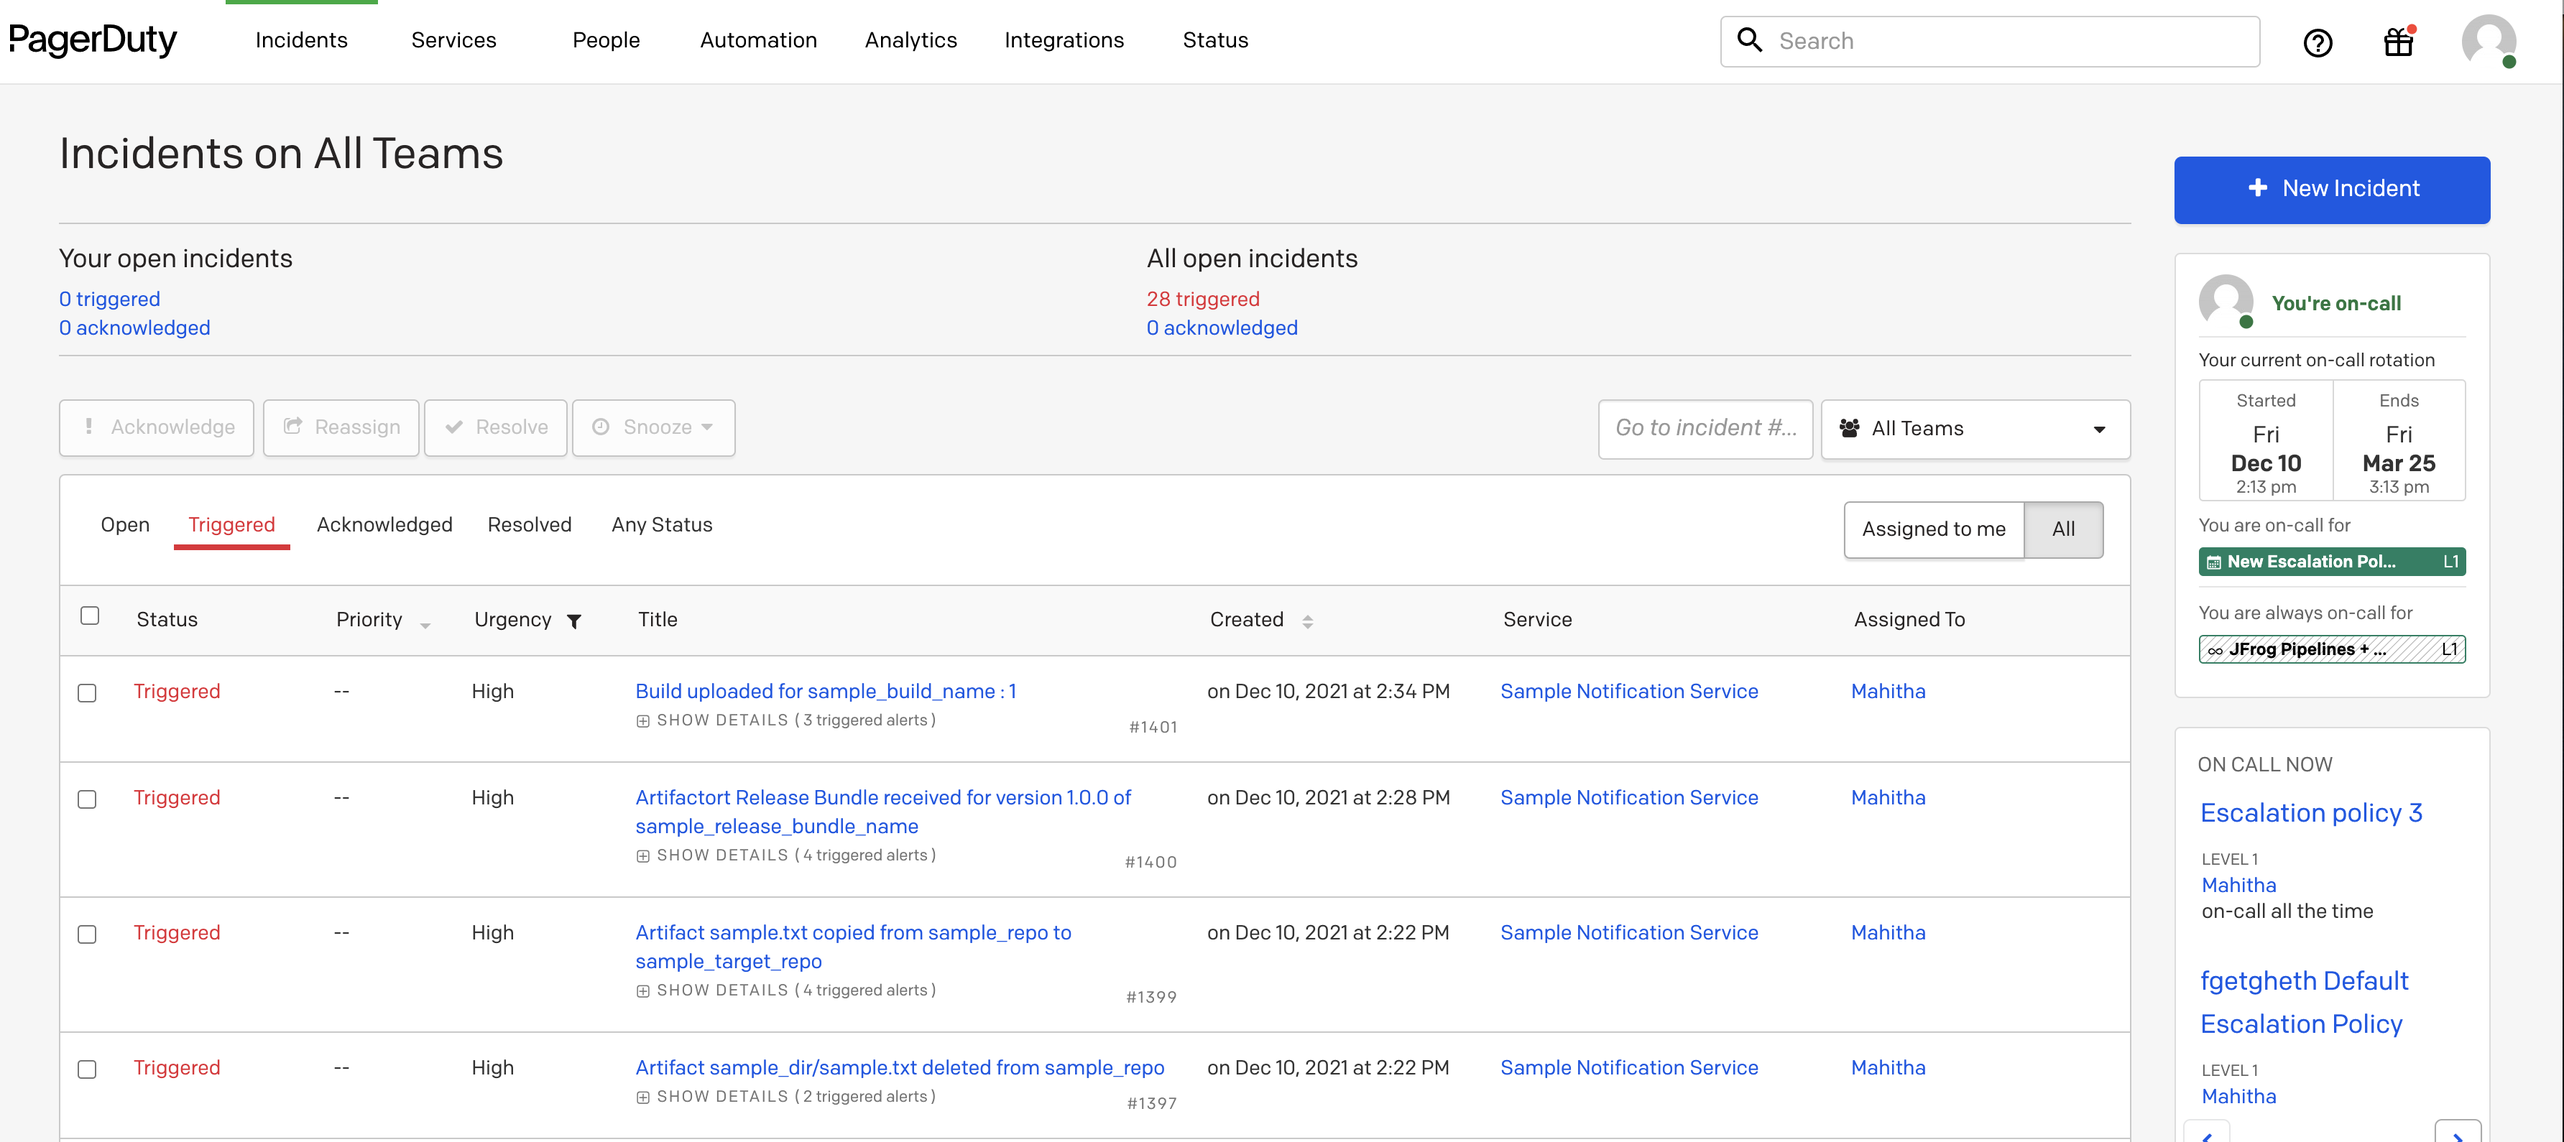
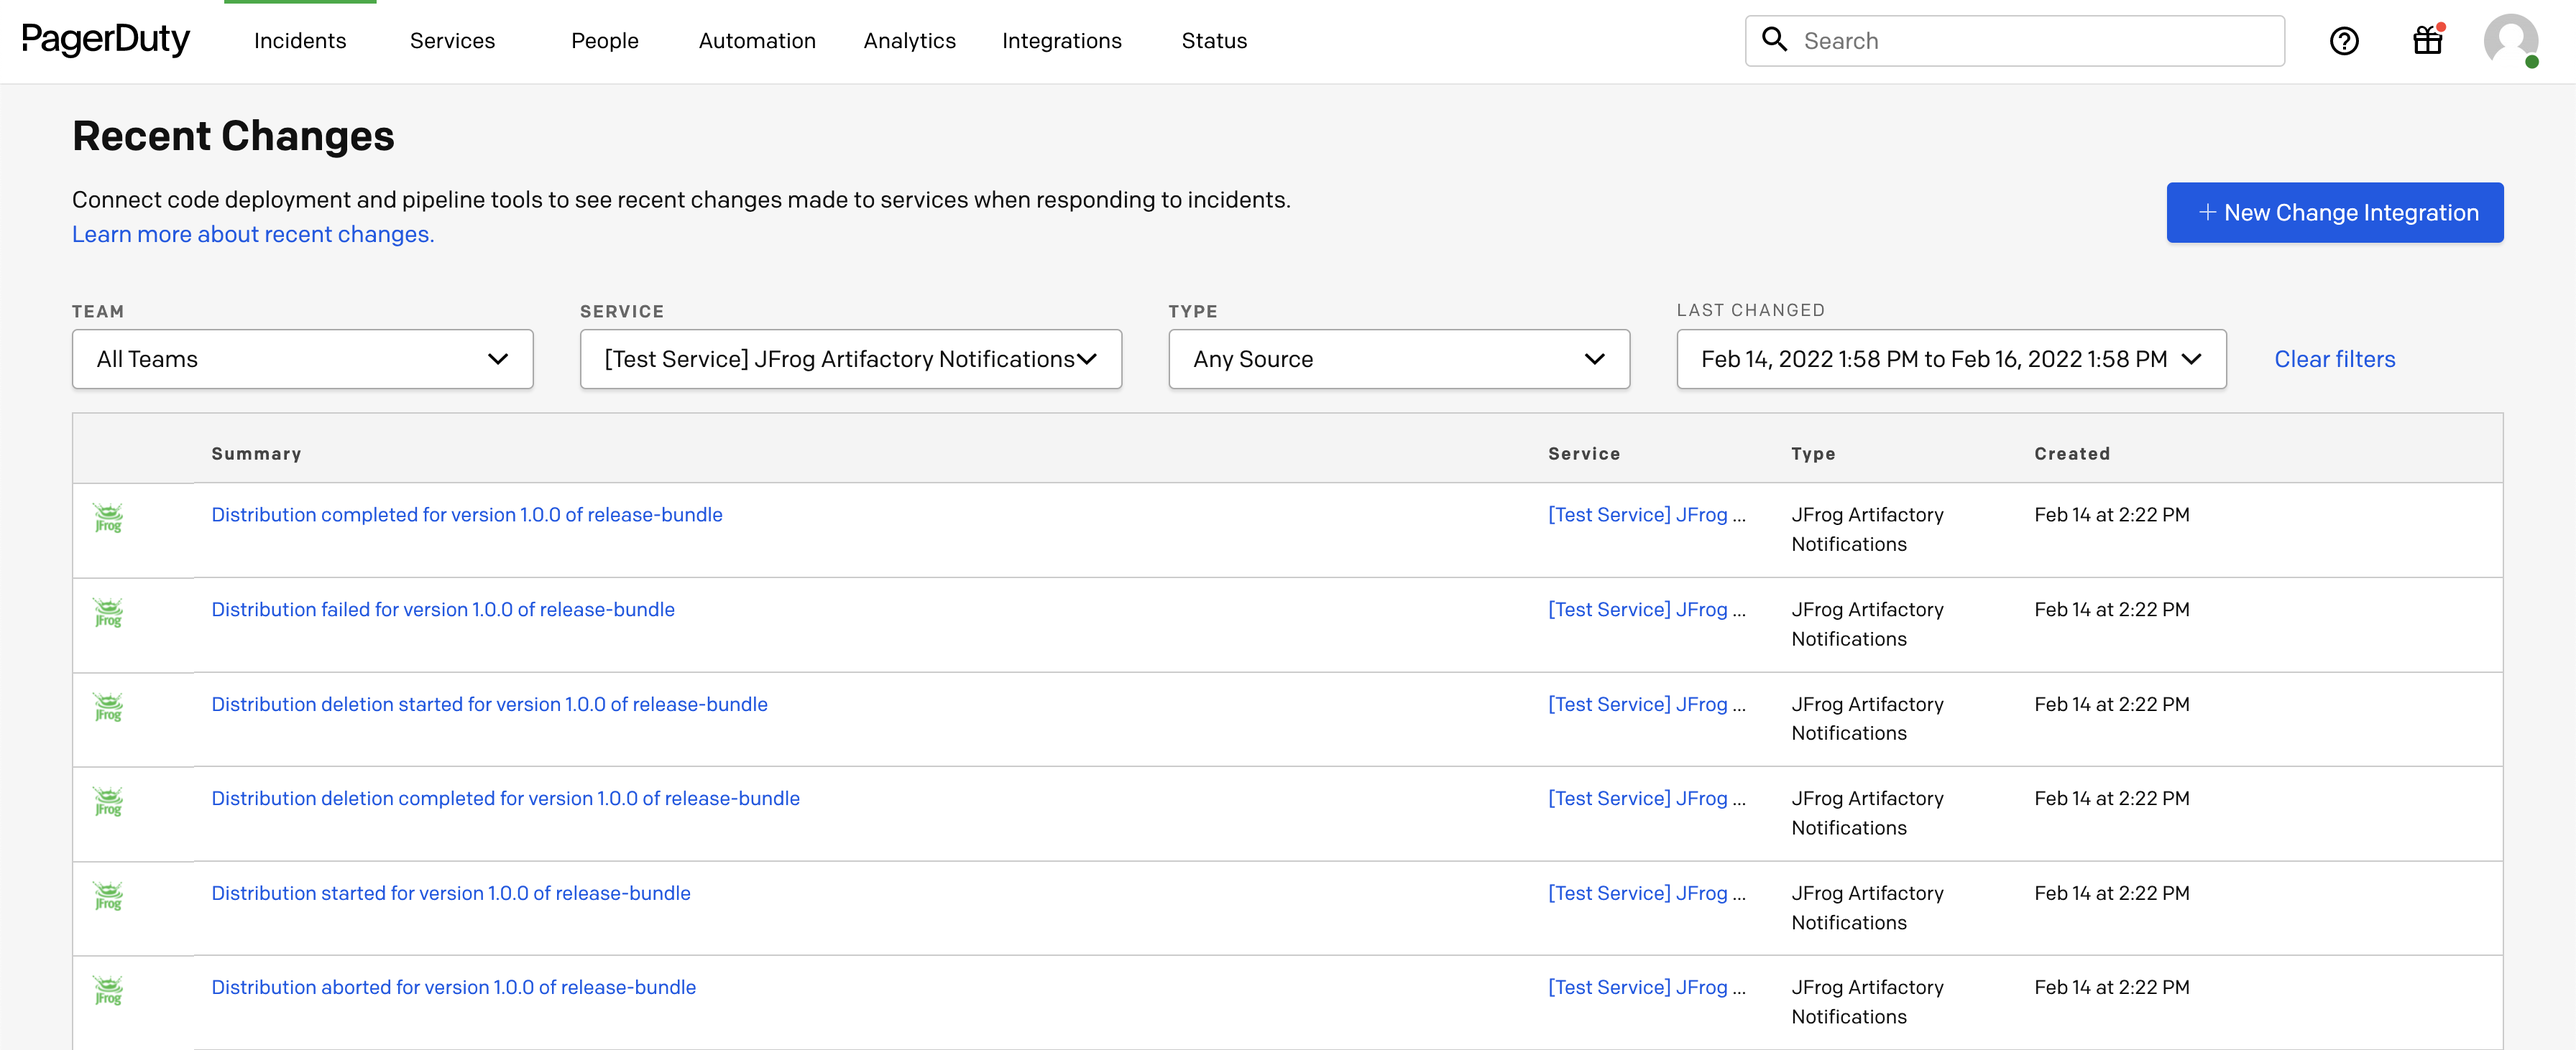
Replacing incidents as change events and replacing image

diff --git a/PagerDuty/Artifactory/README.md b/PagerDuty/Artifactory/README.md
@@ -5,8 +5,8 @@ Usually, when making software updates to your binaries and applications, your de
 # How it Works
 * Users will install the JFrog Artifactory integration application from within the PagerDuty Service Directory and receive a URL to setup the PagerDuty webhook within JFrog Artifactory
 * JFrog Artifactory will utilize the PagerDuty webhook trigger to send notifications to PagerDuty.  Users will be able to configure their webhook events for repositories, builds and release bundles within JFrog Artifactory and associate these events with the PagerDuty webhook trigger. 
-* Once the webhook is configured within JFrog Artifactory, an incident will be sent to the PagerDuty service whenever an event occurs.
-* Artifactory performs a recheck of all selected repositories, builds and release bundles and any events generated will be sent as an event to a service in PagerDuty. Events from Artifactory will trigger a new incident on the corresponding PagerDuty service, or group as alerts into an existing incident.
+* Once the webhook is configured within JFrog Artifactory, an change event will be sent to the PagerDuty service whenever an event occurs.
+* Artifactory performs a recheck of all selected repositories, builds and release bundles and any events generated will be sent as an event to a service in PagerDuty. Events from Artifactory will trigger a new change event on the corresponding PagerDuty service, or group as alerts into an existing recent change event.
 
 # Requirements
 * PagerDuty integration requires an admin base role for account authorization. If you do not have this role, please reach out to an Admin or Account Owner within your organization to configure the integration.
@@ -101,7 +101,7 @@ At the bottom of the main screen, you can Test the notification, by selecting th
 
 This will send your webhook event to your PagerDuty integration. After you have tested your webhook, hit **Create** and you’re done!
 
-Once you have tested and finish creating your webhooks, you can see them as alerts in PagerDuty:
+Once you have tested and finish creating your webhooks, you can see them as recent changes in PagerDuty:
 
 <img src="https://raw.githubusercontent.com/jfrog/partner-integrations/main/PagerDuty/Artifactory/img/image15.png" width="900">
 
